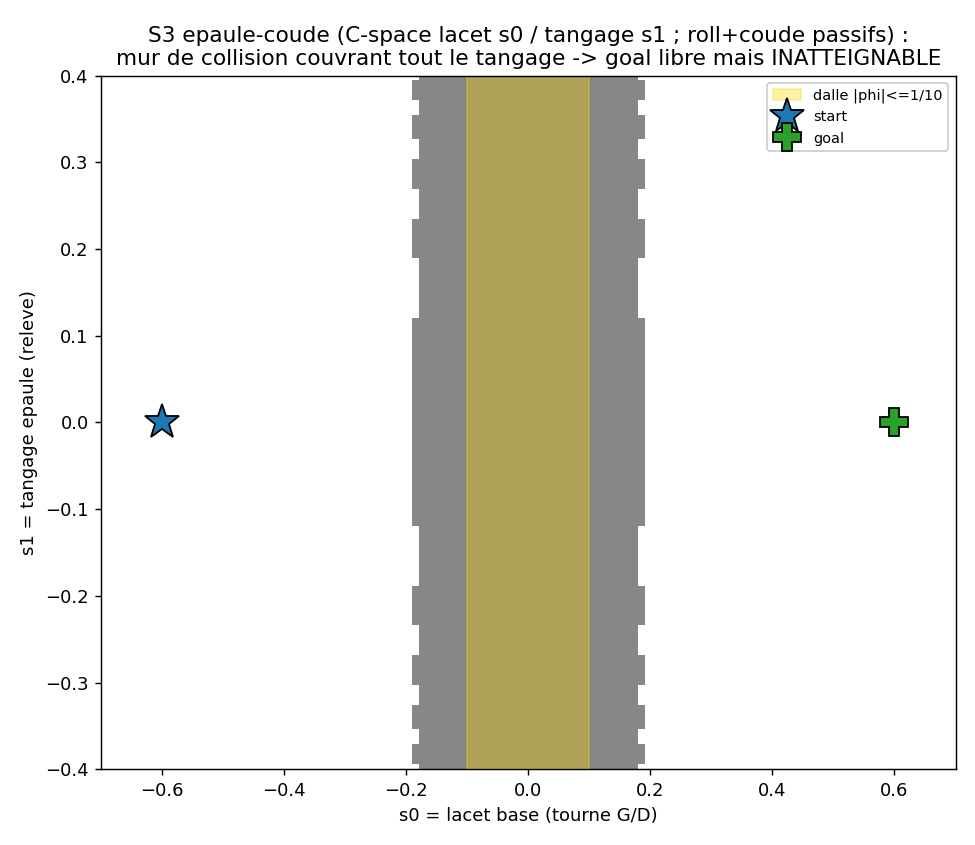
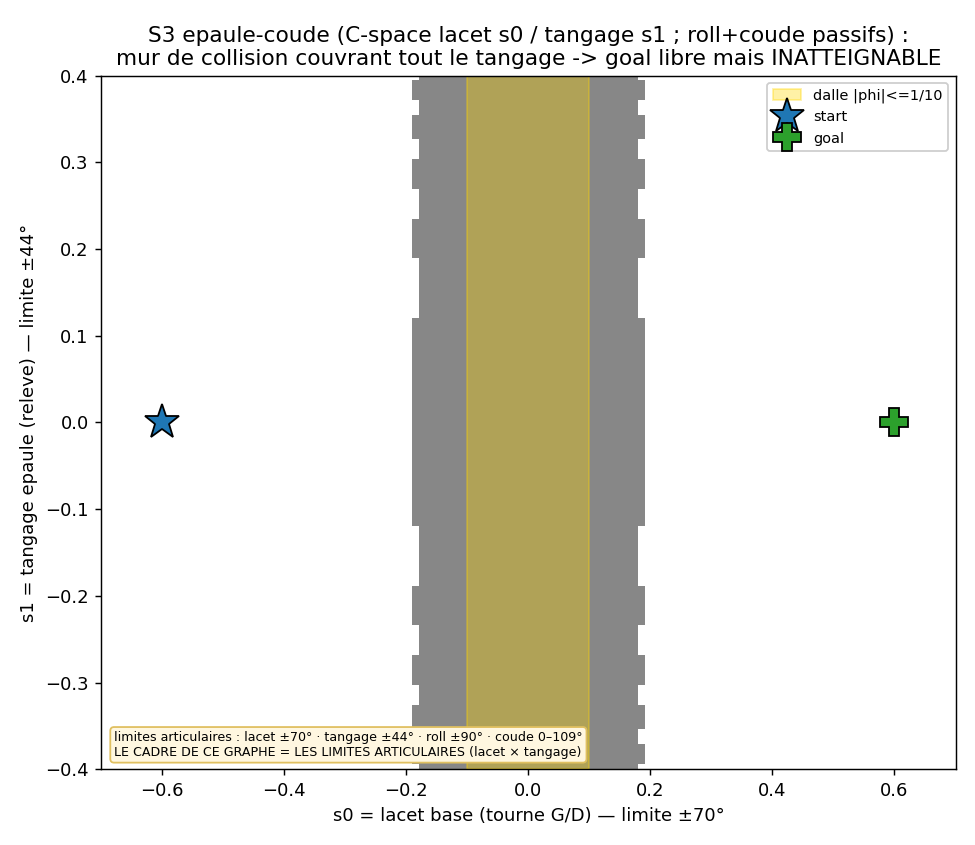
S7 A25: limites articulaires explicites partout + roll/coude réalistes
[A25] Les limites articulaires (la boîte P) doivent être explicites — le théorème
prouve la déconnexion DANS ces limites.
- Limites réelles corrigées + roll/coude (PASSIFS) rendus réalistes : roll s2±1=±90°,
  coude s3∈[0,7/5]=0–109° (pas d'hyperextension). Re-vérifié PROOF + 0 libre/150k.
- Encadré 'limites : lacet ±70° · tangage ±44° · roll ±90° · coude 0–109°' sur chaque
  figure ; C-space : 'LE CADRE DU GRAPHE = LES LIMITES' + limites dans les labels d'axes.
- Widget : bandeau limites + butées des curseurs = limites (dit) + degrés par curseur ;
  around-path corrigé pour rester dans les limites.
- Verdict CLI (certify ET verify) rappelle ses hypothèses à chaque PROOF/ENGINE-PROOF :
  limites en degrés + pas de wrap-around + obstacles statiques + polytopes + géométrie exacte.
- Helpers viz.joint_limits_deg / viz.limits_caption. Tests +assertions A25. 158 passed, 0 skip.

diff --git a/certified-noplan/scripts/make_scene_figures.py b/certified-noplan/scripts/make_scene_figures.py
@@ -99,6 +99,13 @@ def shoulder_elbow_figures():
     oracle = scenes.collision_oracle(scene, n_samples=30)
     fk, _names, _bn, _tip = viz._fk_and_names(scene)
     L_UP, L_FORE = 0.40, 0.30
+    LIMS = viz.limits_caption(scene)          # A25: explicit joint limits, e.g. "lacet ±70° ..."
+    BOX = dict(boxstyle="round", fc="#fff7e0", ec="#e0c060")
+
+    def limits_box(ax):                       # the "encadré limites" required on every figure
+        ax.text(0.015, 0.015, LIMS + "\n(toutes ⊂ ±180° : pas de wrap-around)",
+                transform=ax.transAxes, fontsize=7.0, va="bottom", ha="left",
+                bbox=BOX, zorder=10)
 
     def full_arm(s):
         """base -> elbow -> hand (upper arm length L_UP, forearm L_FORE)."""
@@ -141,6 +148,7 @@ def shoulder_elbow_figures():
     ax.set_title(f"S3 epaule-coude 4-DOF (vue DESSUS, plan x-y) : balayage du lacet base "
                  f"— {n_coll}/{n} poses en collision\nMONTRE : bras COMPLET (sup. epais = "
                  "corps certifie ; avant-bras fin = affichage) ; fantomes start/goal etiquetes")
+    limits_box(ax)
     p1 = os.path.join(OUT, "scene_S3_shoulder_elbow_sweep.png")
     fig.tight_layout()
     fig.savefig(p1, dpi=130)
@@ -198,6 +206,7 @@ def shoulder_elbow_figures():
                  "sommet panneau 0.6 > portee du bras 0.4  =>  passer PAR-DESSUS est "
                  "IMPOSSIBLE (raison = HAUTEUR DU MUR,\npas la limite articulaire : meme "
                  "au tangage max le bras plante bas dans le panneau)", fontsize=10)
+    limits_box(ax)
     p3 = os.path.join(OUT, "scene_S3_shoulder_elbow_side.png")
     fig.tight_layout()
     fig.savefig(p3, dpi=130)
@@ -208,7 +217,9 @@ def shoulder_elbow_figures():
     p2 = os.path.join(OUT, "scene_S3_shoulder_elbow_cspace.png")
     viz.save_cspace_figure(
         scene, oracle, p2, axes=(0, 1), n=140, fixed={2: 0.0, 3: 0.0},
-        axis_labels=("s0 = lacet base (tourne G/D)", "s1 = tangage epaule (releve)"),
+        axis_labels=("s0 = lacet base (tourne G/D) — limite ±70°",
+                     "s1 = tangage epaule (releve) — limite ±44°"),
+        footer=LIMS + "\nLE CADRE DE CE GRAPHE = LES LIMITES ARTICULAIRES (lacet × tangage)",
         title="S3 epaule-coude (C-space lacet s0 / tangage s1 ; roll+coude passifs) :\n"
               "mur de collision couvrant tout le tangage -> goal libre mais INATTEIGNABLE")
     print("written", os.path.normpath(p2))

diff --git a/certified-noplan/src/cnp/cli.py b/certified-noplan/src/cnp/cli.py
@@ -45,6 +45,15 @@ def _cmd_verify(args) -> int:
     if ok:
         print("verdict: PROOF (verified in exact arithmetic"
               + (" + scene cross-check)" if args.scene is not None else ")"))
+        import math
+        from fractions import Fraction as _F
+        lims = " · ".join(
+            f"q{i} {round(math.degrees(2*math.atan(float(_F(lo)))))}…"
+            f"{round(math.degrees(2*math.atan(float(_F(hi)))))}°"
+            for i, (lo, hi) in enumerate(cert.get("box", [])))
+        print("  hypotheses (SPEC §2) : limites articulaires " + lims
+              + " (within ±180° => pas de wrap-around) ; "
+              + ", ".join(cert.get("assumptions", [])))
         return 0
     print("verdict: UNDECIDED (certificate not verified; NOT a proof of feasibility)")
     return 1
@@ -53,6 +62,17 @@ def _cmd_verify(args) -> int:
 # --------------------------------------------------------------------------- #
 # certify
 # --------------------------------------------------------------------------- #
+
+def _print_assumptions(scene) -> None:
+    """A25: every PROOF / ENGINE-PROOF reminds its hypotheses (SPEC §2), including the
+    EXPLICIT joint limits in degrees — the proof is only as strong as these premises."""
+    from . import viz as _viz
+    print("  hypotheses (SPEC §2, rappelees a chaque preuve) :")
+    print("    - " + _viz.limits_caption(scene) + " ; toutes within (-180,180) deg => "
+          "pas de wrap-around")
+    print("    - obstacles statiques ; corps robot = polytopes convexes ; "
+          "geometrie de scene exacte (rationnels)")
+
 
 def _cmd_certify(args) -> int:
     from . import certificate as _cert
@@ -78,6 +98,7 @@ def _cmd_certify(args) -> int:
               "EXACT verifier does not yet support this robot kind — "
               f"{scene.robot.kind!r}, exact verification arrives in S9)")
         print("  WARNING: this is NOT an exact-arithmetic-verified proof (rule 5).")
+        _print_assumptions(scene)
         return 0
 
     try:
@@ -97,6 +118,7 @@ def _cmd_certify(args) -> int:
         return 0
     print(f"certificate written to {out}")
     print(f"verdict: PROOF — {msg}")
+    _print_assumptions(scene)
     return 0
 
 

diff --git a/certified-noplan/tests/test_s3_anchor.py b/certified-noplan/tests/test_s3_anchor.py
@@ -81,6 +81,8 @@ def test_s3_cli_certify_is_engine_proof(capsys):
     assert rc == 0
     assert "ENGINE-PROOF" in out and "NOT" in out              # warning always present
     assert "spatial_revolute" in out and "S9" in out           # honest scope note
+    assert "hypotheses" in out and "wrap-around" in out        # A25: assumptions recalled
+    assert "lacet" in out and "70" in out and "coude" in out   # A25: explicit joint limits
 
 
 # --------------------------------------------------------------------------- #
@@ -130,6 +132,9 @@ def test_interactive_html_is_self_contained_with_baked_scene(tmp_path):
     assert data["start_s"][0] == -0.6 and data["goal_s"][0] == 0.6
     assert data["panels"] and data["panels"][0]["hi"][2] == 0.6     # panel top z=3/5
     assert data["joint_names"][3] == "coude (y)"                    # elbow named
+    assert "limites" in data["limits_caption"] and "coude" in data["limits_caption"]  # A25
+    assert len(data["limits_deg"]) == 4                            # one [lo,hi]° per joint
+    assert round(data["limits_deg"][0][1]) == 70                   # lacet +70°
 
 
 def test_interactive_html_rejects_planar_scene():

diff --git a/certified-noplan/JOURNAL.md b/certified-noplan/JOURNAL.md
@@ -1207,6 +1207,27 @@ V4 acquise sur les figures ; nouvelle exigence à journaliser et appliquer :
   côté supervision ; j'ai livré ma propre version auto-suffisante (zéro dépendance) — à
   aligner sur son prototype si Stéphane préfère (demander la spec).
 
+**Itération V4 (3e retour Stéphane : exigence A25 — limites articulaires explicites)** —
+- **Correction des chiffres** : les valeurs d'exemple de Stéphane (lacet ±62°, roll ±90°,
+  coude 0-110°) ne correspondaient pas à ma boîte (±62° = la valeur de start/goal s0=±0.6,
+  pas la limite). Limites RÉELLES (q=2·atan(s)) : lacet ±70°, tangage ±44°, roll/coude
+  étaient ±70° (s=±0.7). Son indice « coude 0-110° » est juste sur le fond : un coude
+  symétrique ±70° est physiquement faux. Comme **roll et coude sont PASSIFS** (impact nul
+  sur la soundness), je les ai rendus RÉALISTES : **roll s2∈[-1,1]→±90°**, **coude
+  s3∈[0,7/5]→0–109°** (pas d'hyperextension ; start/goal à s3=0). Re-vérifié : PROOF,
+  start/goal libres, **0 libre/150k** dans la dalle, libre des deux côtés.
+- **[A25] Limites explicites PARTOUT** : (a) **encadré « limites articulaires : lacet
+  ±70° · tangage ±44° · roll ±90° · coude 0–109° »** sur chaque figure (sweep, côté,
+  C-space) ; (b) **C-space : « LE CADRE DE CE GRAPHE = LES LIMITES ARTICULAIRES »** +
+  limites dans les labels d'axes (lacet ±70°, tangage ±44°) ; (c) **widget : bandeau de
+  limites + butées des curseurs = limites** (dit explicitement) + **degrés affichés par
+  curseur** (« coude (y) [0…109°] ») ; (d) **verdict CLI rappelle ses hypothèses à chaque
+  PROOF/ENGINE-PROOF** : limites articulaires en degrés + « pas de wrap-around » +
+  obstacles statiques + polytopes + géométrie exacte (`cnp certify` ET `cnp verify`).
+  Helpers `viz.joint_limits_deg` / `viz.limits_caption`. Tests étendus (+ assertions A25).
+- Boîte du widget « contourner » corrigée pour rester dans les limites (s3 ne descend plus
+  sous 0). Limite assumée déjà notée : projection x-z ambiguë (collision calculée en 3D).
+
 **Prochaine étape** : V4, micro-commit de clôture, puis (selon revue) S8 — perf :
 **tâche n°1 dims passives par intervalles** (A18, données S7 : oracle 8→36 feuilles
 sur 0→3 dims passives), highspy direct, sparsité, warnings. NB : la vérification EXACTE

diff --git a/certified-noplan/benchmarks/GEOMETRY-S3-vs-LiDantam.md b/certified-noplan/benchmarks/GEOMETRY-S3-vs-LiDantam.md
@@ -23,7 +23,7 @@ box."* — that is the full extent of the published geometry.
 | Upper-arm length | not published | **2/5 m** (= 0.40) | chosen (plausible) |
 | Forearm length | not published | **3/10 m** (= 0.30) — *visual only*, NOT in the certificate (the certified body is the upper arm) | chosen |
 | Obstacle ("box"/panel) | not published | front panel, box `x∈[3/20,1/5], y∈[-3/50,3/50], z∈[-3/5,3/5]` m (= x∈[0.15,0.20], y∈[±0.06], z∈[±0.60]) | chosen |
-| Joint limits | not published (factory limits ⊂ (−π,π) assumed) | s-box `s0∈[±7/10], s1∈[±2/5], s2,s3∈[±7/10]`; q = 2·arctan(s) ⟹ yaw/roll/elbow ∈ ±(1.22 rad), pitch ∈ ±(0.76 rad) — all ⊂ (−π,π) | chosen (⊂ (−π,π), SPEC §2) |
+| Joint limits | not published (factory limits ⊂ (−π,π) assumed) | s-box `s0∈[±7/10]`, `s1∈[±2/5]`, `s2∈[±1]`, `s3∈[0,7/5]`; q = 2·arctan(s) ⟹ **lacet ±70°, tangage ±44°, roll ±90°, coude 0–109°** — all ⊂ (−π,π). Roll/elbow are passive, given physically realistic ranges (no elbow hyperextension) | chosen (⊂ (−π,π), SPEC §2; explicit on every figure/slider/verdict — A25) |
 | start / goal | shown graphically only | `s0 = −3/5` (yaw left, free) → `s0 = +3/5` (yaw right, free); other joints 0 | chosen (both free) |
 | Barrier φ | (their method learns a manifold) | φ = s0 (base yaw), δ = 1/10 | our method (baked rational barrier) |
 
